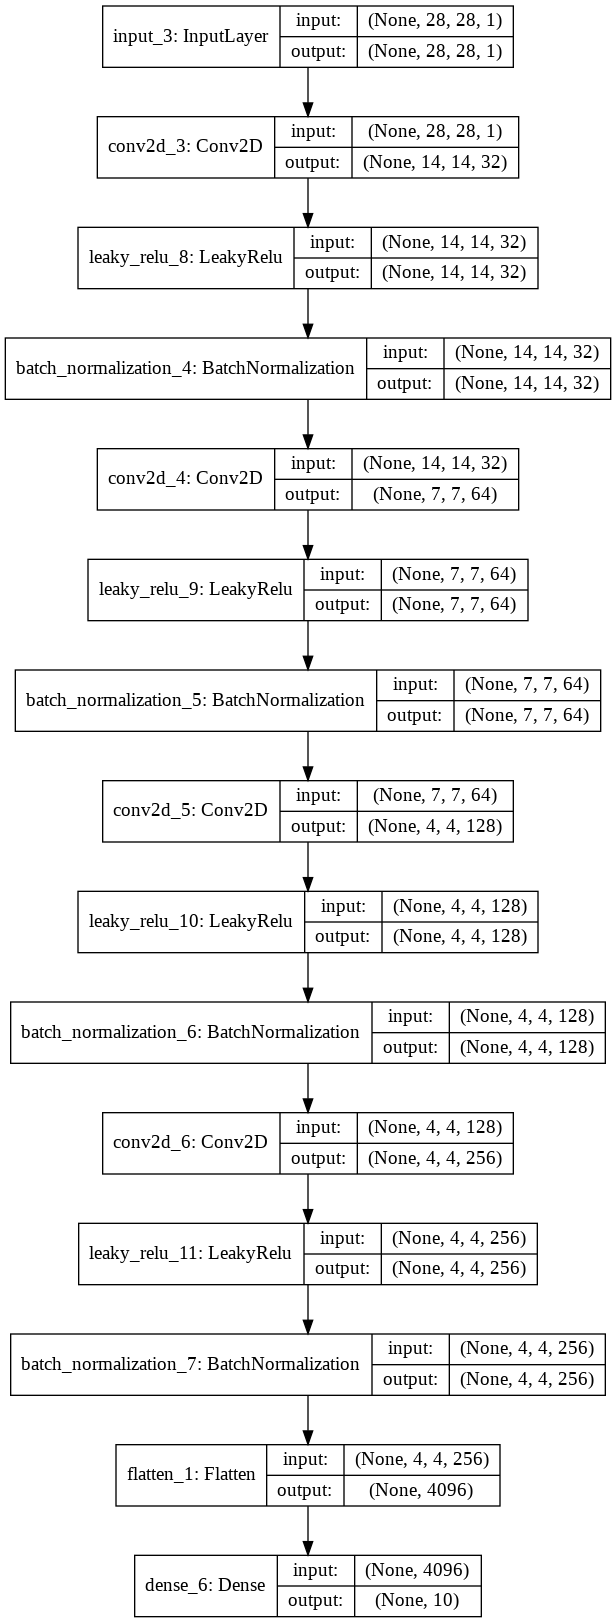
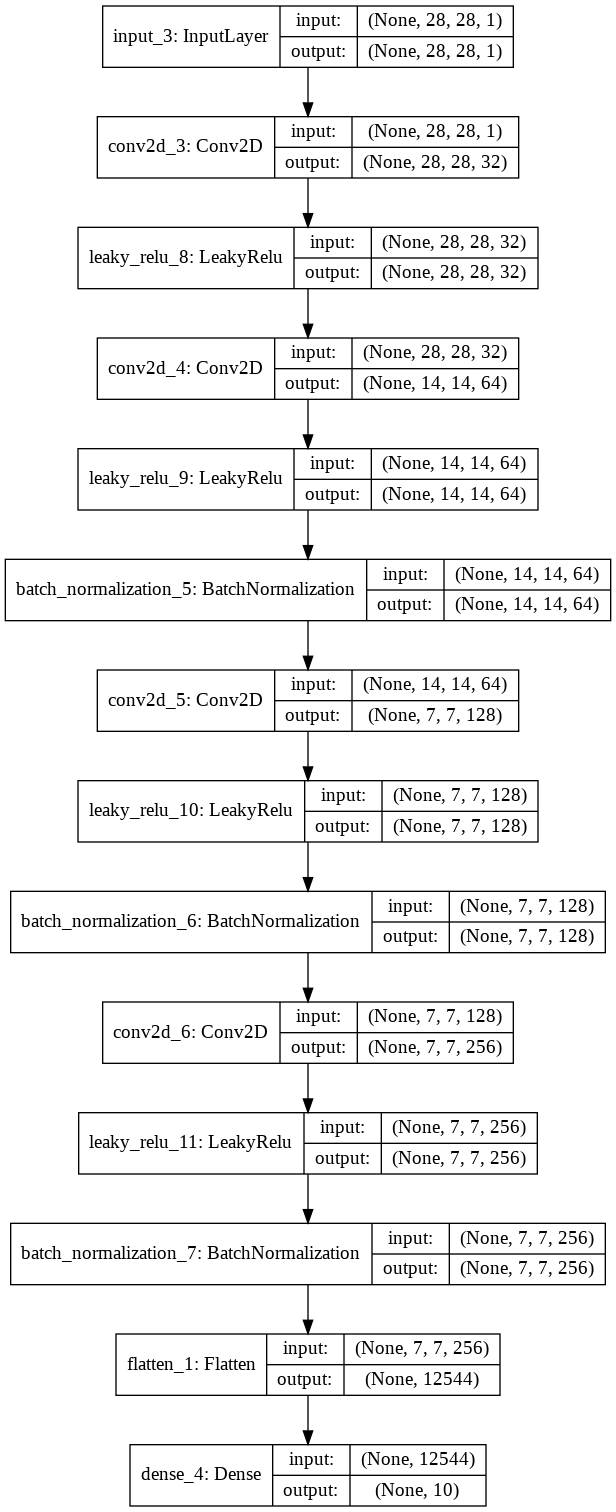
New model architecture
Got rid of some dense layers from the start, added an extra conv layer to generator

Changed region(s): [[0.0, 0.0, 1.0, 1.0]]

diff --git a/train.py b/train.py
@@ -9,6 +9,7 @@ import keras.backend as K
 from keras.datasets import mnist
 import numpy as np
 import matplotlib.pyplot as plt
+#change this to from tqdm import tqdm_notebook as tqdm if using a juptyer notebook
 from tqdm import tqdm
 from keras.utils import plot_model
 
@@ -25,8 +26,8 @@ class LeakyRelu(Layer):
 
     def __init__(self, **kwargs):
         super(LeakyRelu, self).__init__(**kwargs)
-        #aprox 90% chance of being 0.1-0.45 and aprox 50% chance of 0.2-0.35 and also aprox 50% chance of being 0.3-0.5 with overall the highest chance at 0.3
-        self.alpha_initializer = RandomNormal(0.3, 0.1)
+        
+        self.alpha_initializer = RandomNormal(0.25, 0.1)
         self.__name__ = "LeakyRelu"
         if K.backend() == "tensorflow":
             from tensorflow import where
@@ -41,8 +42,7 @@ class LeakyRelu(Layer):
         '''Called by Keras on init to set up the trainable paramters'''
         #makes alpha_a and alpha_b learnable PRelu style
         #seperate alphas for -1 leakage and 1 leakage
-        #beta controls where the leakages start and is also trainable
-        #each layer will have it's own sperate alpha_a, alpha_b, beta_a and beta_b as a seperate LeakyRelu object is used for each layer
+        #each layer will have it's own sperate alpha_a and alpha_b
         #starts like a fairly normal leakyrelu
         self.alpha_a = self.add_weight(name='alpha_a',
                                        shape=(1,),
@@ -52,22 +52,14 @@ class LeakyRelu(Layer):
                                        shape=(1,),
                                        initializer=Constant(1),
                                        trainable=True)
-        
-        self.beta_a = self.add_weight(name='beta_a',
-                                      shape=(1,),
-                                      initializer=Constant(-1),
-                                      trainable=True)
-        self.beta_b = self.add_weight(name='beta_b',
-                                      shape=(1,),
-                                      initializer=Constant(1),
-                                      trainable=True)
+
     def call(self, x):
         '''Where the main logic lives'''
         x = K.cast(x, "float32")
         #y=alpha*x+c rearnaged so at x=-1 the leaky component also outputs -1 (see https://www.desmos.com/calculator/fnsuod7zka)
-        self.c_a = -1 * self.alpha_a * self.beta_a + self.beta_a
+        self.c_a = self.alpha_a - 1
         #same as above but so at x=1 leaky outputs 1
-        self.c_b = -1 * self.alpha_b * self.beta_b + self.beta_b
+        self.c_b = -1 * self.alpha_b + 1
         '''
         This is the same as
         if x>-1:
@@ -78,7 +70,7 @@ class LeakyRelu(Layer):
         else:
             x*self.alpha_a+self.c_a
         '''
-        return self.switch(K.greater(x, self.beta_a), self.switch(K.less(x, self.beta_b), x, x*self.alpha_b+self.c_b), x*self.alpha_a+self.c_a)
+        return self.switch(K.greater(x, -1), self.switch(K.less(x, 1), x, x * -1 + self.c_b), x * self.alpha_a + self.c_a)
 
     def compute_output_shape(self, input_shape):
         '''Called by keras so it knows what input shape the next layer can expect'''
@@ -110,13 +102,8 @@ Y = np.concatenate((y_train, y_test))
 noise_in = Input(shape=(100, ))
 gen_label_in = Input(shape=(1, ))
 
-#embeds the 1D class label in 100D space
-label_embedder = Dense(100)
-embedded_gen_label = Dense(100)(gen_label_in)
-activation = LeakyRelu()(embedded_gen_label)
-
-#downcasts the 200D concatanted noise and label vectors into 100D space
-dense = Dense(100)(Concatenate()([noise_in, activation]))
+#downcasts the 101D concatanted noise and label vectors into 100D space
+dense = Dense(100)(Concatenate()([noise_in, gen_label_in]))
 activation = LeakyRelu()(dense)
 
 #12544 = 7*7*256 allowing the reshape to take place
@@ -143,34 +130,37 @@ conv = Conv2DTranspose(64, kernel_size=4, strides=2, padding="same")(norm)
 activation = LeakyRelu()(conv)
 norm = BatchNormalization()(activation)
 
+conv = Conv2DTranspose(32, kernel_size=4, padding="same")(norm)
+activation = LeakyRelu()(conv)
+norm = BatchNormalization()(activation)
+
 #1 as we only want 1 channel ie grayscale output
 #tanh to restrict output to -1 to 1
-img_out = Conv2D(1, kernel_size=4, padding="same", activation="tanh")(norm)
+img_out = Conv2D(1, kernel_size=5, padding="same", activation="tanh")(norm)
 
 generator = Model(inputs=[noise_in, gen_label_in], outputs=img_out)
 #saves a diagram of the model
 plot_model(generator, to_file=path+'generator.png', show_shapes=True)
 
 #discriminator portion of network
+#mirror of generator in terms of number of filters
 #takes a 28x28x1 input ie a 28x28 grayscale image
 img_in = Input((28, 28, 1))
 disc_label_in = Input(shape=(1,))
 
+conv = Conv2D(32, kernel_size=3, padding="same")(img_in)
+activation = LeakyRelu()(conv)
+
 #strides 2 to perform downsampling
-#mirror of generator in terms of number of filters
-conv = Conv2D(32, kernel_size=3, padding="same", strides=2)(img_in)
+conv = Conv2D(64, kernel_size=4, padding="same", strides=2)(activation)
 activation = LeakyRelu()(conv)
 norm = BatchNormalization()(activation)
 
-conv = Conv2D(64, kernel_size=3, padding="same", strides=2)(norm)
+conv = Conv2D(128, kernel_size=4, padding="same", strides=2)(norm)
 activation = LeakyRelu()(conv)
 norm = BatchNormalization()(activation)
 
-conv = Conv2D(128, kernel_size=3, padding="same", strides=2)(norm)
-activation = LeakyRelu()(conv)
-norm = BatchNormalization()(activation)
-
-conv = Conv2D(256, kernel_size=3, padding="same")(norm)
+conv = Conv2D(256, kernel_size=4, padding="same")(norm)
 activation = LeakyRelu()(conv)
 norm = BatchNormalization()(activation)
 
@@ -218,33 +208,33 @@ if True:
     #if the generator weights file exists load it
     try:
         with open(path+"gen.h5", 'r') as f:
-            print("Loading generator checkpoint")
             generator.load_weights(path+"gen.h5")
-    except FileNotFoundError:
+            print("Loaded generator checkpoint")
+    except:
         pass
 #change to if False when doing the first train run after an archticuture change or if you for any other reason don't want to load the checkpoint weights
 if True:
     #if the discriminator weights file exists load it
     try:
         with open(path+"disc.h5", 'r') as f:
-            print("Loading discriminator checkpoint")
             discriminator.load_weights(path+"disc.h5")
-    except FileNotFoundError:
+            print("Loaded discriminator checkpoint")
+    except:
         pass
     
     #if the classifier weights file exists load it
     try:
         with open(path+"class.h5", 'r') as f:
-            print("Loading classifier checkpoint")
             classifier.load_weights(path+"class.h5")
-    except FileNotFoundError:
+            print("Loaded classifier checkpoint")
+    except:
         pass
 
 if True:
     try:
         with open(path+"epoch.txt", 'r') as f:
             epoch = int(f.read())
-    except FileNotFoundError:
+    except:
         epoch = 0
 else:
     epoch = 0

diff --git a/viz.py b/viz.py
@@ -14,8 +14,8 @@ class LeakyRelu(Layer):
 
     def __init__(self, **kwargs):
         super(LeakyRelu, self).__init__(**kwargs)
-        #aprox 90% chance of being 0.1-0.45 and aprox 50% chance of 0.2-0.35 and also aprox 50% chance of being 0.3-0.5 with overall the highest chance at 0.3
-        self.alpha_initializer = RandomNormal(0.3, 0.1)
+        
+        self.alpha_initializer = RandomNormal(0.25, 0.1)
         self.__name__ = "LeakyRelu"
         if K.backend() == "tensorflow":
             from tensorflow import where
@@ -30,32 +30,24 @@ class LeakyRelu(Layer):
         '''Called by Keras on init to set up the trainable paramters'''
         #makes alpha_a and alpha_b learnable PRelu style
         #seperate alphas for -1 leakage and 1 leakage
-        #beta controls where the leakages start and is also trainable
-        #each layer will have it's own sperate alpha_a, alpha_b, beta_a and beta_b as a seperate LeakyRelu object is used for each layer
+        #each layer will have it's own sperate alpha_a and alpha_b
+        #starts like a fairly normal leakyrelu
         self.alpha_a = self.add_weight(name='alpha_a',
                                        shape=(1,),
                                        initializer=self.alpha_initializer,
                                        trainable=True)
         self.alpha_b = self.add_weight(name='alpha_b',
                                        shape=(1,),
-                                       initializer=self.alpha_initializer,
+                                       initializer=Constant(1),
                                        trainable=True)
-        
-        self.beta_a = self.add_weight(name='beta_a',
-                                      shape=(1,),
-                                      initializer=Constant(-1),
-                                      trainable=True)
-        self.beta_b = self.add_weight(name='beta_b',
-                                      shape=(1,),
-                                      initializer=Constant(1),
-                                      trainable=True)
+
     def call(self, x):
         '''Where the main logic lives'''
         x = K.cast(x, "float32")
         #y=alpha*x+c rearnaged so at x=-1 the leaky component also outputs -1 (see https://www.desmos.com/calculator/fnsuod7zka)
-        self.c_a = -1 * self.alpha_a * self.beta_a + self.beta_a
+        self.c_a = self.alpha_a - 1
         #same as above but so at x=1 leaky outputs 1
-        self.c_b = -1 * self.alpha_b * self.beta_b + self.beta_b
+        self.c_b = -1 * self.alpha_b + 1
         '''
         This is the same as
         if x>-1:
@@ -66,7 +58,7 @@ class LeakyRelu(Layer):
         else:
             x*self.alpha_a+self.c_a
         '''
-        return self.switch(K.greater(x, self.beta_a), self.switch(K.less(x, self.beta_b), x, x*self.alpha_b+self.c_b), x*self.alpha_a+self.c_a)
+        return self.switch(K.greater(x, -1), self.switch(K.less(x, 1), x, x * -1 + self.c_b), x * self.alpha_a + self.c_a)
 
     def compute_output_shape(self, input_shape):
         '''Called by keras so it knows what input shape the next layer can expect'''
@@ -83,6 +75,9 @@ def reverse_tanh(x):
     #rounds to the nearest integer to keep matplotlib happy
     return np.rint(x * 0.5 +0.5)
 
+#keras treats batch norm wierldy if it belevies we are predicting
+K.clear_session()
+K.set_learning_phase(1)
 #loads the model from the saved model file
 json_file = open('model.json', 'r')
 
@@ -93,6 +88,12 @@ model = model_from_json(loaded_model_json, mapping)
 
 # load weights into new model
 model.load_weights("gen.h5")
+
+#stops batch norm from still training
+for layer in model.layers:
+    if "norm" in layer.name:
+        layer.trainable = False
+        
 #keract requires model compilation
 model.compile(loss="mse", optimizer="adam")
 
@@ -101,7 +102,7 @@ while True:
     noise = np.random.normal(0, 1, (1, 100))
     label = np.array([[randint(0, 9)]])
     #shows the reshape layer as it has image output
-    activations = get_activations(model, [noise, label], model.layers[10].name)
+    activations = get_activations(model, [noise, label], "reshape_1")
     display_activations(activations, cmap="gray")
     for layer in model.layers:
         #shows only the batch norm layers to avoid seeing conv then batch norm when they are quite similar

diff --git a/generate.py b/generate.py
@@ -13,8 +13,8 @@ class LeakyRelu(Layer):
 
     def __init__(self, **kwargs):
         super(LeakyRelu, self).__init__(**kwargs)
-        #aprox 90% chance of being 0.1-0.45 and aprox 50% chance of 0.2-0.35 and also aprox 50% chance of being 0.3-0.5 with overall the highest chance at 0.3
-        self.alpha_initializer = RandomNormal(0.3, 0.1)
+        
+        self.alpha_initializer = RandomNormal(0.25, 0.1)
         self.__name__ = "LeakyRelu"
         if K.backend() == "tensorflow":
             from tensorflow import where
@@ -29,32 +29,24 @@ class LeakyRelu(Layer):
         '''Called by Keras on init to set up the trainable paramters'''
         #makes alpha_a and alpha_b learnable PRelu style
         #seperate alphas for -1 leakage and 1 leakage
-        #beta controls where the leakages start and is also trainable
-        #each layer will have it's own sperate alpha_a, alpha_b, beta_a and beta_b as a seperate LeakyRelu object is used for each layer
+        #each layer will have it's own sperate alpha_a and alpha_b
+        #starts like a fairly normal leakyrelu
         self.alpha_a = self.add_weight(name='alpha_a',
                                        shape=(1,),
                                        initializer=self.alpha_initializer,
                                        trainable=True)
         self.alpha_b = self.add_weight(name='alpha_b',
                                        shape=(1,),
-                                       initializer=self.alpha_initializer,
+                                       initializer=Constant(1),
                                        trainable=True)
-        
-        self.beta_a = self.add_weight(name='beta_a',
-                                      shape=(1,),
-                                      initializer=Constant(-1),
-                                      trainable=True)
-        self.beta_b = self.add_weight(name='beta_b',
-                                      shape=(1,),
-                                      initializer=Constant(1),
-                                      trainable=True)
+
     def call(self, x):
         '''Where the main logic lives'''
         x = K.cast(x, "float32")
         #y=alpha*x+c rearnaged so at x=-1 the leaky component also outputs -1 (see https://www.desmos.com/calculator/fnsuod7zka)
-        self.c_a = -1 * self.alpha_a * self.beta_a + self.beta_a
+        self.c_a = self.alpha_a - 1
         #same as above but so at x=1 leaky outputs 1
-        self.c_b = -1 * self.alpha_b * self.beta_b + self.beta_b
+        self.c_b = -1 * self.alpha_b + 1
         '''
         This is the same as
         if x>-1:
@@ -65,7 +57,7 @@ class LeakyRelu(Layer):
         else:
             x*self.alpha_a+self.c_a
         '''
-        return self.switch(K.greater(x, self.beta_a), self.switch(K.less(x, self.beta_b), x, x*self.alpha_b+self.c_b), x*self.alpha_a+self.c_a)
+        return self.switch(K.greater(x, -1), self.switch(K.less(x, 1), x, x * -1 + self.c_b), x * self.alpha_a + self.c_a)
 
     def compute_output_shape(self, input_shape):
         '''Called by keras so it knows what input shape the next layer can expect'''
@@ -112,7 +104,7 @@ while True:
     #creates the matplotlib plot
     for i in range(0, num):
         fig.add_subplot(ceil(sqrt(num)), ceil(sqrt(num)), i+1)
-        plt.imshow(gen_img[i].reshape(28,28), cmap="gray", vmin=0, vmax=1, interpolation="lanczos")
+        plt.imshow(gen_img[i].reshape(28,28), cmap="gray", vmin=0, vmax=1)
         plt.title(label[i], {'fontsize':8})
         plt.axis("off")
     #fullscreen style
